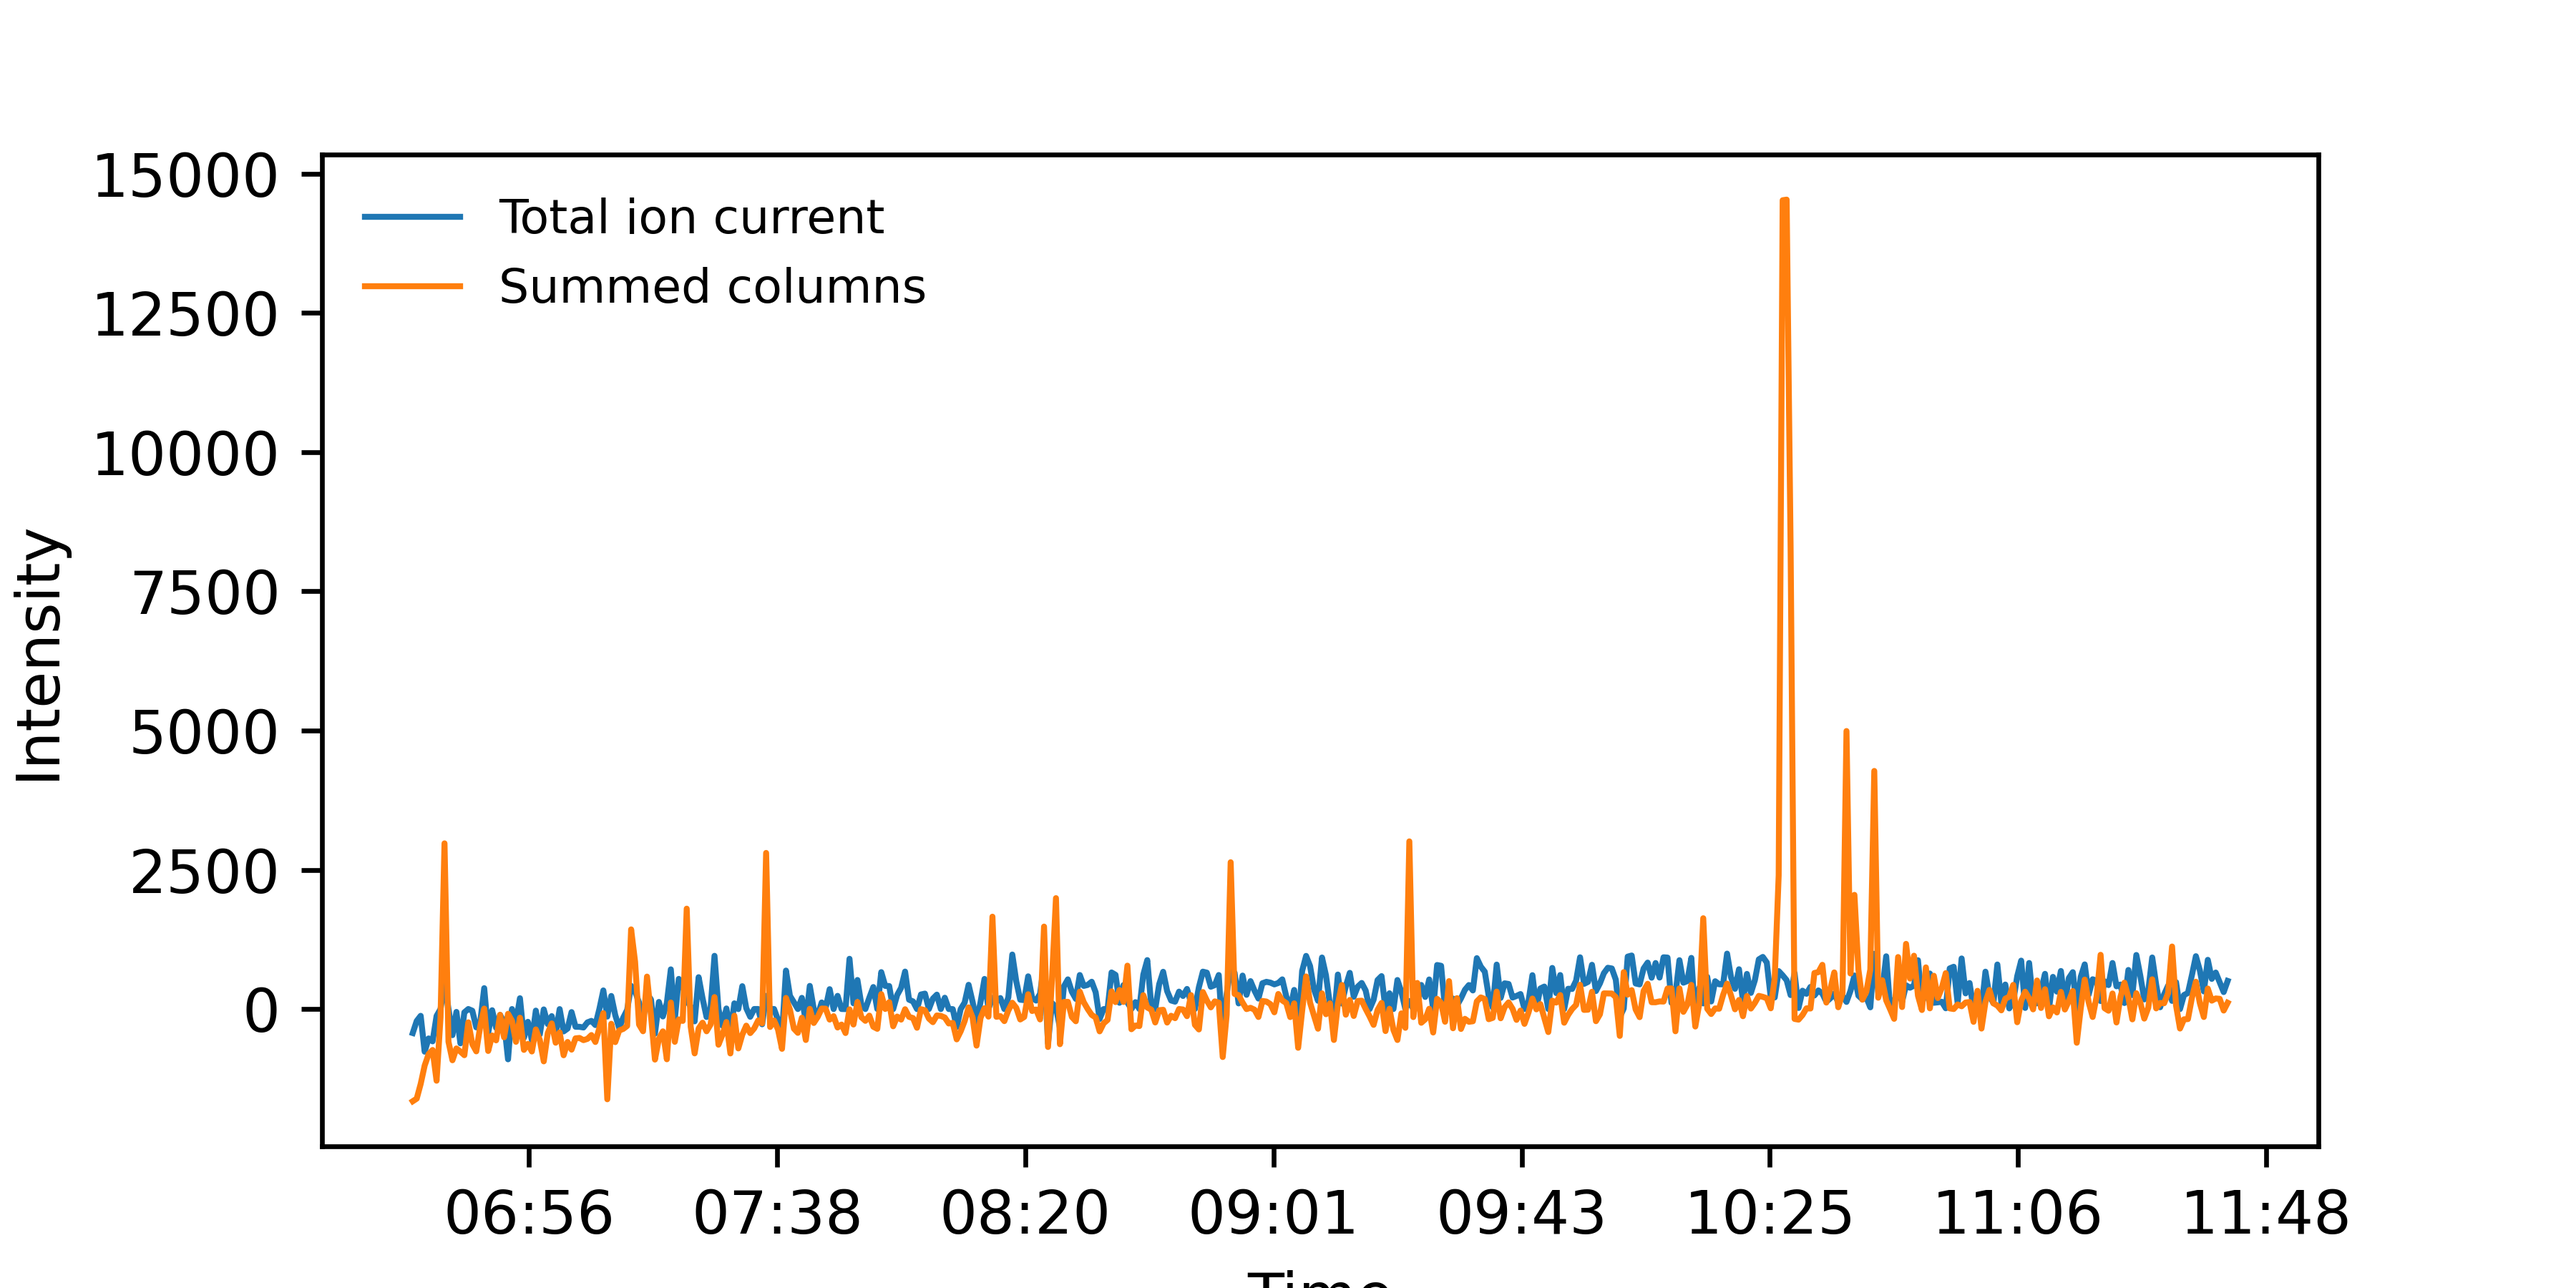
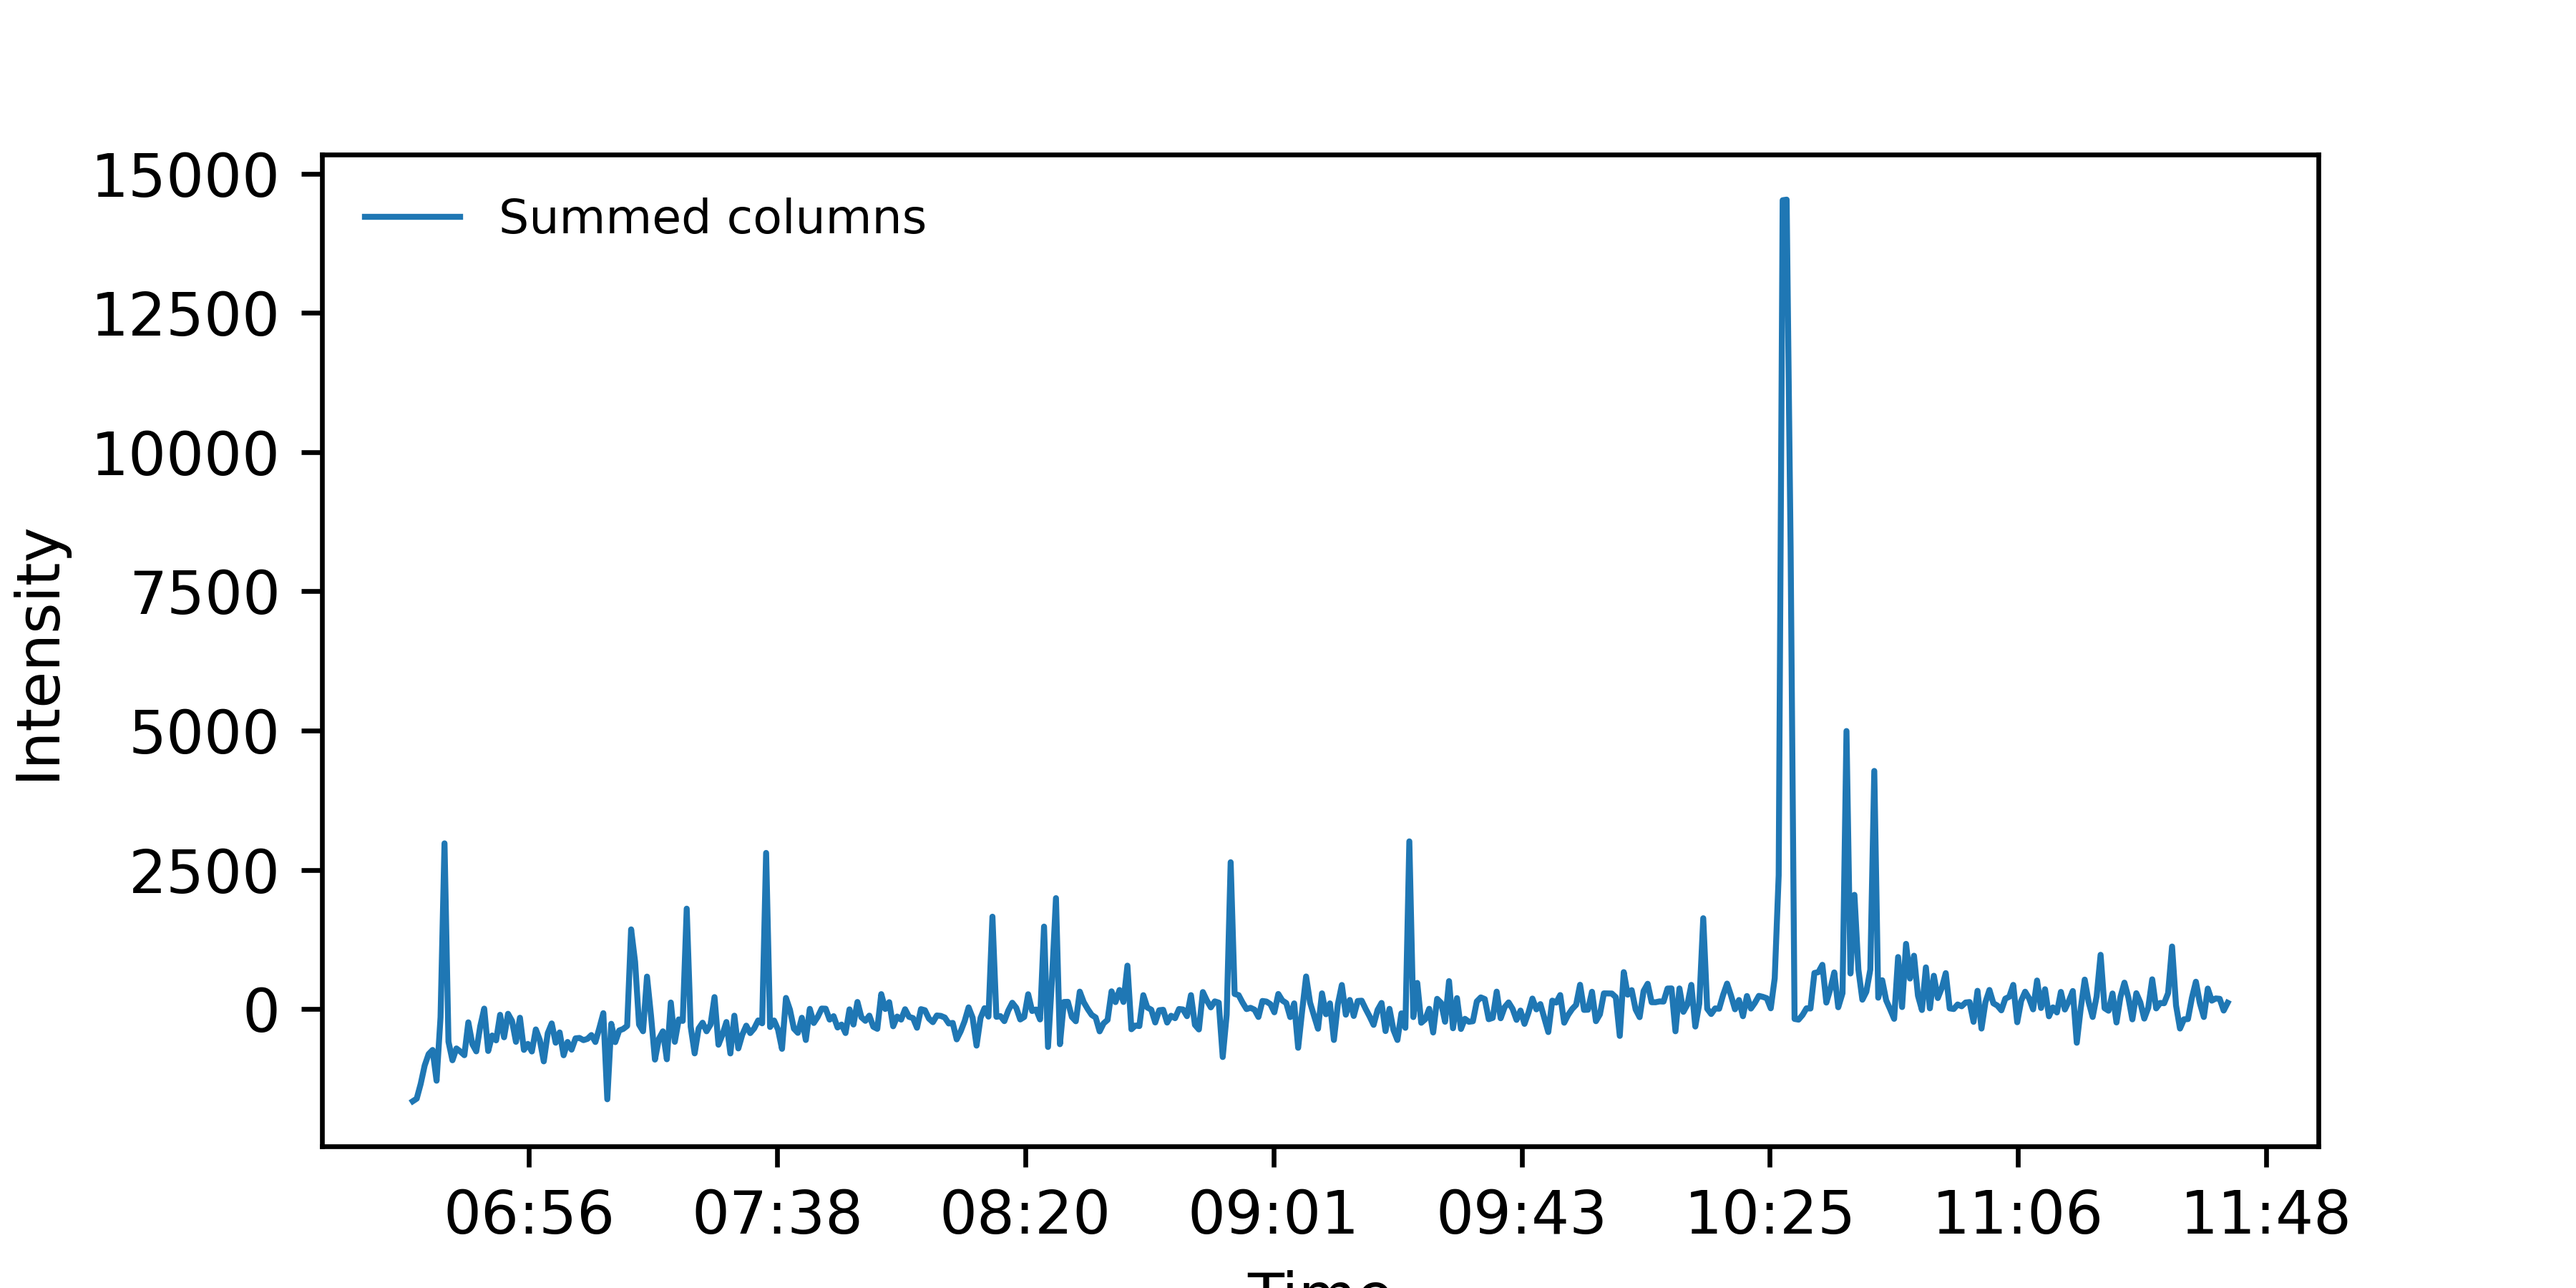
edit

Changed region(s): [[0.1556, 0.1556, 0.8711, 0.84], [0.1867, 0.1556, 0.3733, 0.1867], [0.1556, 0.2178, 0.3422, 0.2489]]

diff --git a/field.py b/field.py
@@ -35,7 +35,7 @@ def read_data(path, parent_path):
     return data_dict
 #%%
 def plot_overview(ax, df):
-    ax.plot(df.index, df['Total ion current'], lw = 1, label = 'Total ion current')
+    # ax.plot(df.index, df['Total ion current'], lw = 1, label = 'Total ion current')
     ax.plot(df.index, df['Sum'], lw = 1, label = 'Summed columns')
 
     formatter = FuncFormatter(lambda s, x: time.strftime('%H:%M', time.gmtime(s)))
